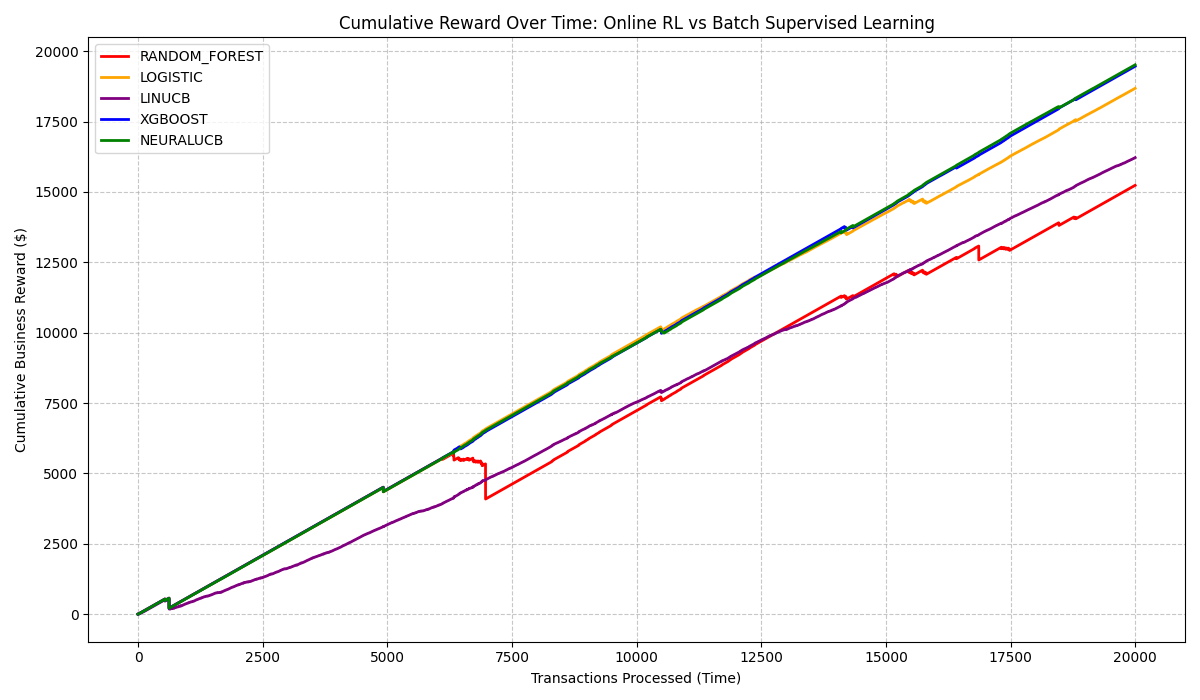
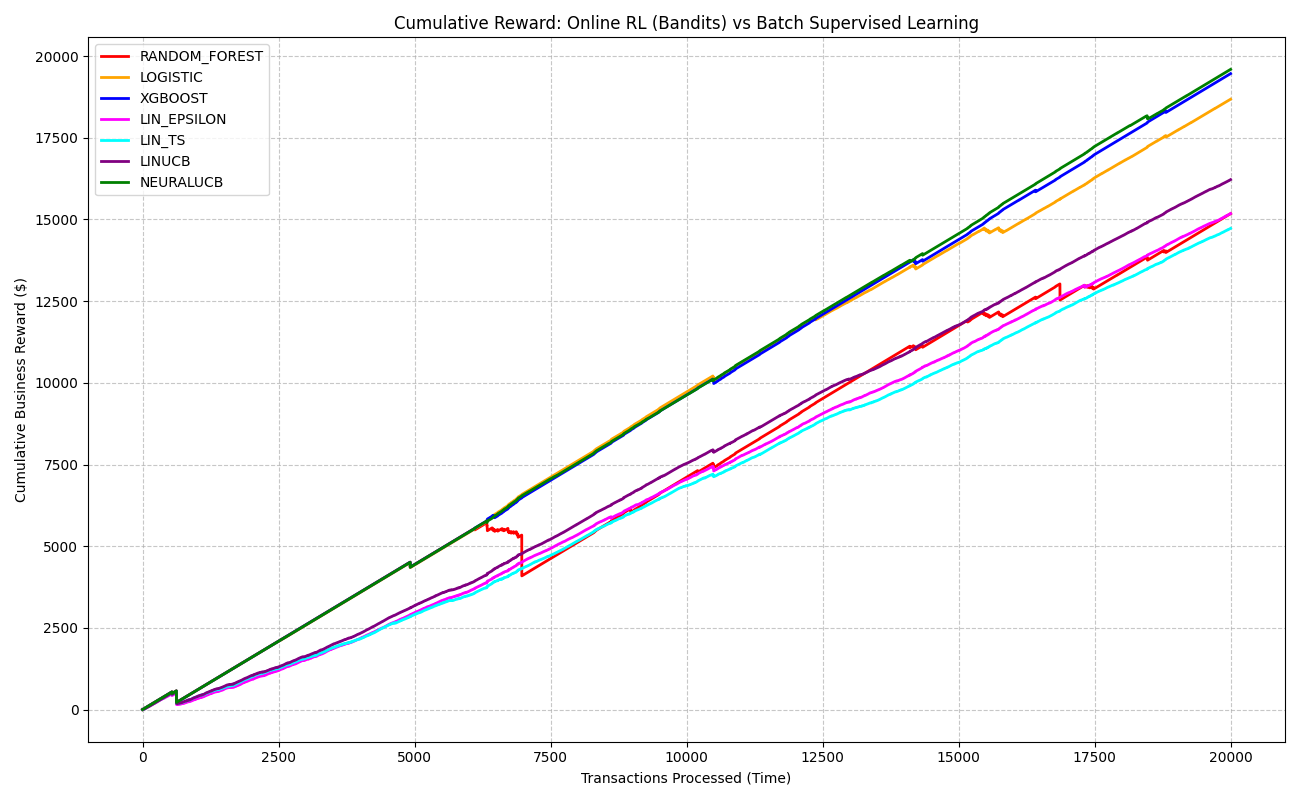
feat: add linear epsilon and linear thompson sampling agent implementations

diff --git a/main.py b/main.py
@@ -7,6 +7,8 @@ from env.fraud_env import FraudDetectionEnv
 from agents.linucb import LinUCBAgent 
 from agents.neuralucb import NeuralUCBAgent
 from agents.supervised import SupervisedAgent
+from agents.linepsilon import LinEpsilonAgent
+from agents.lints import LinTSAgent
 
 def run_simulation(agent_type="random", steps=20000):
     csv_path = 'data/raw/creditcard.csv'
@@ -19,6 +21,10 @@ def run_simulation(agent_type="random", steps=20000):
         agent = LinUCBAgent(n_actions=env.action_space.n, n_features=features.shape[1], alpha=0.1)
     elif agent_type == "neuralucb":
         agent = NeuralUCBAgent(n_actions=env.action_space.n, n_features=features.shape[1], alpha=0.1)
+    elif agent_type == "lin_epsilon":
+        agent = LinEpsilonAgent(n_actions=env.action_space.n, n_features=features.shape[1], epsilon=0.05)
+    elif agent_type == "lin_ts":
+        agent = LinTSAgent(n_actions=env.action_space.n, n_features=features.shape[1], v=0.1)
     elif agent_type in ["logistic", "random_forest", "xgboost"]:
         agent = SupervisedAgent(model_type=agent_type, retrain_interval=1000)
     
@@ -36,7 +42,7 @@ def run_simulation(agent_type="random", steps=20000):
             
         next_obs, reward, terminated, truncated, info = env.step(action)
         
-        if agent_type in ["linucb", "neuralucb"]:
+        if agent_type in ["linucb", "neuralucb", "lin_epsilon", "lin_ts"]:
             agent.update(action, obs, reward)
         elif agent_type in ["logistic", "random_forest", "xgboost"]:
             agent.update(action, obs, reward, info)
@@ -59,7 +65,7 @@ if __name__ == "__main__":
     results_dir = "results"
     os.makedirs(results_dir, exist_ok=True)
     
-    agents_to_test = ["random_forest", "logistic", "linucb", "xgboost", "neuralucb"]
+    agents_to_test = ["random_forest", "logistic", "xgboost", "lin_epsilon", "lin_ts", "linucb", "neuralucb"]
     histories = {}
     metrics = {}
     
@@ -76,33 +82,33 @@ if __name__ == "__main__":
         }
         
     print("\n--- Saving Simulation Results ---")
-    
     df_histories = pd.DataFrame(histories)
     csv_out_path = os.path.join(results_dir, "reward_histories.csv")
     df_histories.to_csv(csv_out_path, index=False)
-    print(f"[SUCCESS] Saved time-series data to: {csv_out_path}")
     
     json_out_path = os.path.join(results_dir, "metrics_summary.json")
     with open(json_out_path, "w") as f:
         json.dump(metrics, f, indent=4)
-    print(f"[SUCCESS] Saved metrics summary to: {json_out_path}")
-    
+        
     print("\n--- Generating Visualization from Saved Data ---")
     loaded_df = pd.read_csv(csv_out_path)
     
-    plt.figure(figsize=(12, 7))
+    plt.figure(figsize=(13, 8))
+    
     colors = {
         "random_forest": "red",
         "logistic": "orange",
-        "linucb": "purple",
         "xgboost": "blue",
+        "lin_epsilon": "magenta",
+        "lin_ts": "cyan",
+        "linucb": "purple",
         "neuralucb": "green"
     }
     
     for agent in agents_to_test:
         plt.plot(loaded_df[agent], label=agent.upper(), color=colors[agent], linewidth=2)
         
-    plt.title("Cumulative Reward Over Time: Online RL vs Batch Supervised Learning")
+    plt.title("Cumulative Reward: Online RL (Bandits) vs Batch Supervised Learning")
     plt.xlabel("Transactions Processed (Time)")
     plt.ylabel("Cumulative Business Reward ($)")
     plt.legend(loc="upper left")

diff --git a/agents/lints.py b/agents/lints.py
@@ -1,0 +1,33 @@
+import numpy as np
+
+class LinTSAgent:
+    def __init__(self, n_actions, n_features, v=0.1):
+        self.n_actions = n_actions
+        self.n_features = n_features
+        self.v = v
+        
+        self.A = {a: np.identity(n_features) for a in range(n_actions)}
+        self.b = {a: np.zeros((n_features, 1)) for a in range(n_actions)}
+        
+    def get_action(self, context):
+        x = context.reshape(-1, 1)
+        p = np.zeros(self.n_actions)
+        
+        for a in range(self.n_actions):
+            A_inv = np.linalg.inv(self.A[a])
+            
+            theta_hat = (A_inv @ self.b[a]).flatten()
+            
+            cov = (self.v ** 2) * A_inv
+            cov = (cov + cov.T) / 2.0 
+            
+            theta_sample = np.random.multivariate_normal(theta_hat, cov)
+            
+            p[a] = np.dot(theta_sample, context)
+            
+        return np.argmax(p)
+        
+    def update(self, action, context, reward):
+        x = context.reshape(-1, 1)
+        self.A[action] += x @ x.T
+        self.b[action] += reward * x

diff --git a/agents/linepsilon.py b/agents/linepsilon.py
@@ -1,0 +1,30 @@
+import numpy as np
+
+class LinEpsilonAgent:
+    def __init__(self, n_actions, n_features, epsilon=0.1):
+        self.n_actions = n_actions
+        self.n_features = n_features
+        self.epsilon = epsilon
+        
+        self.A = {a: np.identity(n_features) for a in range(n_actions)}
+        self.b = {a: np.zeros((n_features, 1)) for a in range(n_actions)}
+        
+    def get_action(self, context):
+        if np.random.rand() < self.epsilon:
+            return np.random.randint(self.n_actions)
+            
+        x = context.reshape(-1, 1)
+        p = np.zeros(self.n_actions)
+        
+        for a in range(self.n_actions):
+            A_inv = np.linalg.inv(self.A[a])
+            theta = A_inv @ self.b[a]
+            expected_reward = (theta.T @ x).item()
+            p[a] = expected_reward
+            
+        return np.argmax(p)
+        
+    def update(self, action, context, reward):
+        x = context.reshape(-1, 1)
+        self.A[action] += x @ x.T
+        self.b[action] += reward * x
